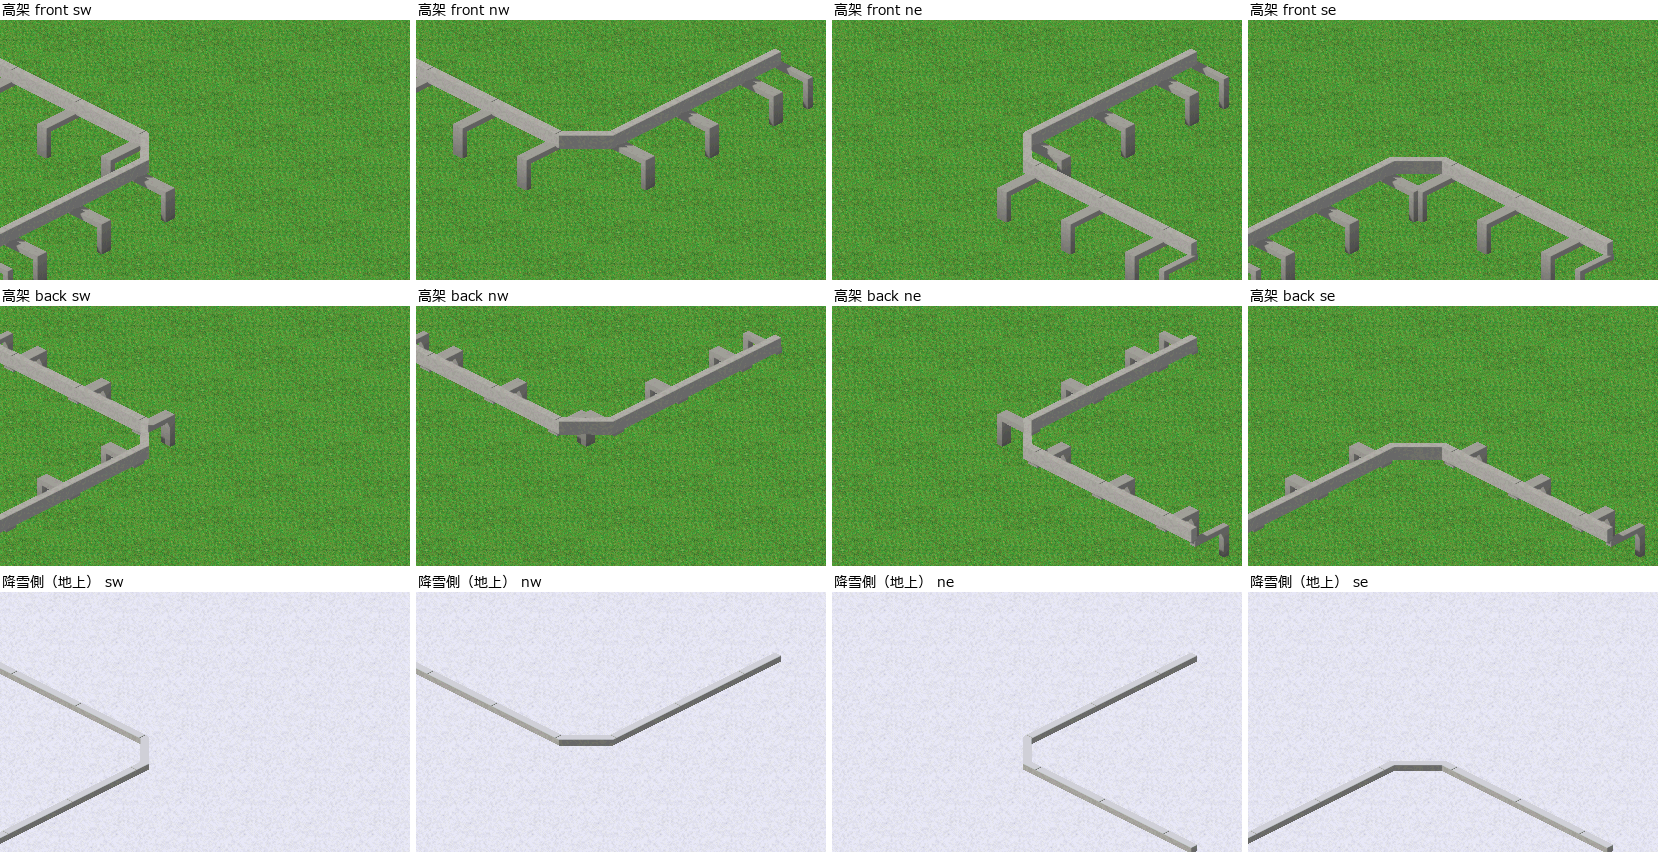
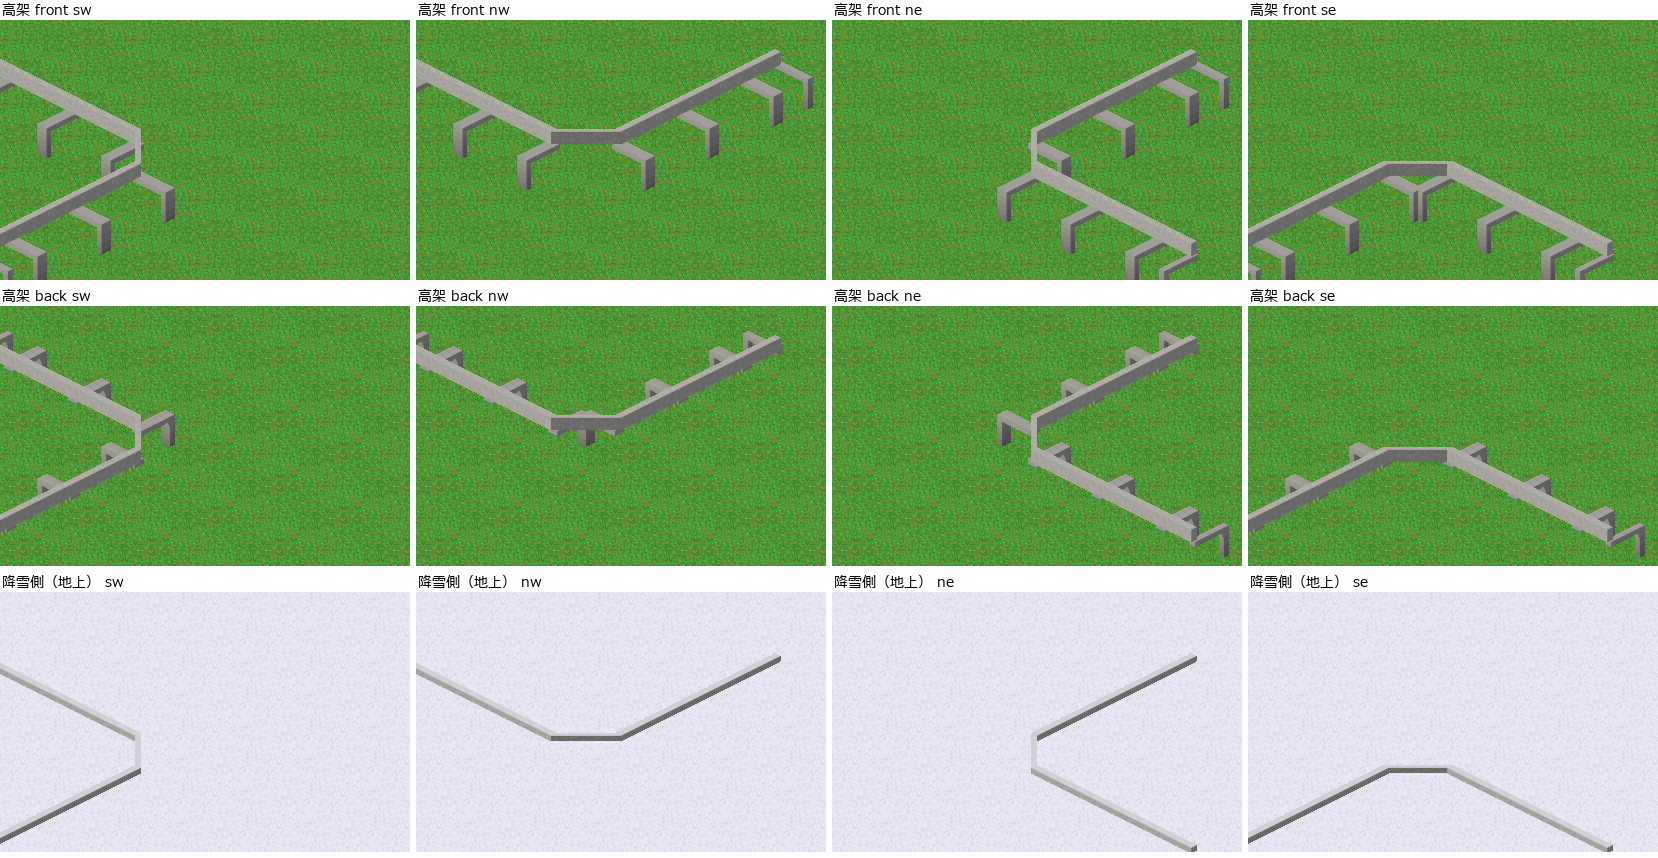
ami: document the straddle beam tile ownership and refresh the corner images (#375)

diff --git a/addons/ami/docs/objects/monorail.md b/addons/ami/docs/objects/monorail.md
@@ -7,7 +7,8 @@
 - 物: 地上の `ami_monorail_straddle`、高架の 3 版 `ami_monorail_straddle_elev_front`・`_center`・`_back`（`system_type=1`）、トンネル `ami_monorail_straddle_tunnel`（中の way は地上の版）、車庫 `ami_monorail_depot`（[「車庫の作り」](depot.md)）。waytype は `monorail_track`。並びは iss の跨座式（`../refs/iss/src/way/monorail/straddle.dat`・`../refs/iss/src/tunnel/monorail/tunnel.dat`）に合わせた（2026-11-21、ユーザーの決定「軌道配置は ISS と合わせる」）。橋・基盤の版・壁は作らない（iss にも無い）
 - 桁: 打ち放しのコンクリートの箱。幅 0.85、上面は way の高さから 0.7（iss の地上の桁を画面で測った値。記録）。地上の版は桁の下面が地面、高架の版は桁を下へ深くして高さ 1.6。跨座式の車両（pak128.japan の車両）は車体の下端が地面の高さに描かれ、裾が桁の上の部分を隠す
 - 高架の柱: 桁がタイルを出入りする辺ごとに、その辺の角に柱を立て、柱の頭から辺の中点の桁の下へ腕を渡す（iss と同じ並び）。版は柱を立てる側で、`front` は手前（南北の線は東、東西の線は南）、`back` は奥、`center` は両側。行き止まりは桁の端にも同じ柱と腕。iss は柱をタイルの角ちょうどに立てるが、AMI はタイルの内側に面を合わせて立て、隣のタイルの柱と背中合わせにする（門型の橋脚と同じ。角に立てると、絵がタイルの持ち分で切られて柱が半分になる）。複線は、西（北）の線を `back`・東（南）の線を `front` にすると、柱が外側に並ぶ（`docs/monorail_elev_pair.png`）
-- 絵の並び: 線路の通常の版と同じシート（`sheetlib` の `track_sheet`。部品は `tools/blender/sheetlib/monorail_parts.py`）。斜めの走り（`diagonal[...]`）は斜めの絵（iss と同じ）。直角の曲がり（`image[sw]` など）は、辺の中点から軸向きに 1.0（`MONO_CORNER_STUB`）進んでから斜めに曲がる角の絵（行 2 の列 5〜8。幅は直線と同じ 0.85。斜めの走りの幅は約 0.54。2026-11-27、ユーザーの判断 86。#375）。斜めの絵を指していたときは、直線のタイルの桁がタイルの外へ伸ばした分が角の先に出た。地上・高架・電化（`ami_monorail_power`）で同じ。斜めの走りの端のタイル（`diagonal[...]`）が直線と続く所は、小さな出が残る。角の絵（`image[...]`）が斜めの絵のタイルに隣り合う並び（曲がりが 3 つ以上続き、向きが入れ替わる所。本体の `weg_t::calc_diagonal` で、片方のタイルだけが斜めでないとされる）では、桁の継ぎ目に段ができる（[`375_three_bends_128.png`](../375_three_bends_128.png)。左が角の絵にする前）。近い斜めの絵は無い（iss の dat にキーが無い）。分岐の絵（`image[nse1]` などの 1・2）は iss と同じく入れたが、本体は `monorail_track` では自動で選ばない（[way-addon.md](../../../../docs/reference/way-addon.md) の 9.2）。分岐の追加画像（ex 画像）は無い
+- 絵の並び: 線路の通常の版と同じシート（`sheetlib` の `track_sheet`。部品は `tools/blender/sheetlib/monorail_parts.py`）。カーブは斜めの絵（iss と同じく、dat の `image[sw]` などが斜めのセルを指す）。近い斜めの絵は無い（iss の dat にキーが無い）。分岐の絵（`image[nse1]` などの 1・2）は iss と同じく入れたが、本体は `monorail_track` では自動で選ばない（[way-addon.md](../../../../docs/reference/way-addon.md) の 9.2）。分岐の追加画像（ex 画像）は無い
+- タイルの持ち分（#375。2026-11-27、ユーザーの判断 91）: 桁は高さのある部品（`tall`）で、タイルの辺で切り（余白 `MONO_TALL_PAD` = 0.05）、各タイルが自分の桁を地面より上（`MONO_RISE` 行）まで描く。斜めの桁の幅は直線の 1/√2（辺で断面がそろう。画面では直線とほぼ同じ太さ）。前は、奥のタイルが手前の隣の分まで桁を延ばして描いていて、直角の曲がりの角の先に桁の端が出た。斜めの形の曲がりをやめて軸向きに進んでから斜めに曲がる形にする案（判断 86）は、曲がりが 3 つ続く所・T 字や十字の隣で段ができたので、やめた。柱と腕は本体の層のままなので、桁の影は腕に落ちない。電化の way-object（`ami_monorail_power`）の絵は変えていない
 - 雪の絵: 桁の上面だけを白くする（iss の跨座式は雪の絵を持たない。AMI のほかの way にそろえて足した）。柱は夏と同じ
 - 色と汚し（#154）: 第 1 弾の高架の躯体・橋脚・壁（中性の灰）と見分けるため、桁と柱を少し暖かい灰にし、柱を桁より 8% 暗くした。柱と腕は下ほど暗くする（地際の汚れ。柱の下端〔地面より 0.5 単位下〕で 45%、下端から 3.5 単位で 0。地面の高さでは約 39%）。懸垂式も同じ。値は `sheetlib/monorail_parts.py` の `MONO_*`、作りは `tiled_concrete_material` の汚しの引数。ユーザーが案 A＋C を選んだ（2026-11-22。案の比べは `docs/weather_cases_*.png`、直す前と直した後は `docs/weather_before_after_*.png`。見本は `ingame/weathering_lineup.nut`）
 - 高架と地上のつなぎ方（#375。本体の決まりで、AMI の版の作りではない。2026-11-27、OTRPv64、`flat_512_left_v64`、pak128、スクリプトで敷設。車両は走らせていない）: 高架の版は、置いた所の地面の高さ + `way_height_clearance`（pak128 は 2）に置かれ、地面が坂なら高架のタイルも坂になる。
@@ -17,7 +18,7 @@
 - アイコン: 背景は紫（モノレール。`blender/icons.py` の `WAY_BG`）。高架の版は右下に版の札（前・中・後）と下の帯
 - 値: 150 km/h、地上 30000・600、高架 60000・1200（地上の 2 倍）、トンネル 120000・2400（4 倍）、登場 1900（#110 の一覧。`blender/ami_dat.py` の `VALUES`）
 - pak は `ami_monorail.pak`（`build.py` の `KINDS`。車庫も入る）
-- 直角の曲がりの前後の画像（#375。2026-11-27、OTRPv64、`flat_512_left_v64`、pak128 と pak256。左が直す前）: [`375_corner_128.png`](../375_corner_128.png)・[`375_corner_256.png`](../375_corner_256.png)（地上。nw は電化つき）、[`375_corner_elev_128.png`](../375_corner_elev_128.png)・[`375_corner_elev_256.png`](../375_corner_elev_256.png)（高架の center）、[`375_corner_front_back_snow_128.png`](../375_corner_front_back_snow_128.png)（直した後の高架の front・back と降雪側）、[`375_power_128.png`](../375_power_128.png)（sw・ne・se の電化）。残る斜めの走りの端の出は [`375_diag_run_end_128.png`](../375_diag_run_end_128.png)
+- 角と接続の前後の画像（#375。2026-11-27、OTRPv64、`flat_512_left_v64`、pak128 と pak256。左が直す前）: 直角の曲がり [`375_corners_128.png`](../375_corners_128.png)・[`_256`](../375_corners_256.png)、3 つ・4 つ続く曲がり・T 字と十字の隣・斜めの走りと端 [`375_bends_128.png`](../375_bends_128.png)・[`_256`](../375_bends_256.png)、高架（center）[`375_elevated_128.png`](../375_elevated_128.png)・[`_256`](../375_elevated_256.png)。直した後の高架の front・back と降雪側 [`375_corner_front_back_snow_128.png`](../375_corner_front_back_snow_128.png)、sw・ne・se の電化 [`375_power_128.png`](../375_power_128.png)、車両の走る所 [`375_vehicle_256.png`](../375_vehicle_256.png)
 - 見本は `ingame/monorail.sh`（`ingame/monorail.nut`）。ゲームの写し（`work/monorail_game/<PORT>/`）を起動し、地上（車庫と輪・十字・斜め・行き止まり）、高架の 3 版（直線・L 字・T字・斜め・行き止まり）、複線、トンネルを敷き、電化の要らない車両の編成を輪で走らせる。`EXTRA_PAKS` で、借りた車両の pak を写しの中にだけ入れられる。`SNOW=1` で降雪側、`CAPTURE=1` で撮る。使い方はスクリプトの冒頭
   - 確認画像（2026-11-22、`OTRPv64_3.exe`、`flat_512.sve`）: `docs/monorail_ground_temperate.png`（地上の輪・十字・車庫の口の T字）、`monorail_elev_front.png`・`monorail_elev_center.png`・`monorail_elev_back.png`・`monorail_elev_pair.png`、`monorail_tunnel_diag.png`（左がトンネル、右が地上の斜め）、`monorail_snow.png`（降雪側の地上と高架 `front`）、`monorail_vehicle.png`・`monorail_vehicle_zoom.png`（地上を走る編成）、`monorail_depot_vehicle.png`（車庫から出る編成）
   - 車両は、ユーザーが動作の確かめに渡した pak128.japan の跨座式の車両（玉野の 4 両編成。battery）を、写しの中にだけ入れて走らせた。リポジトリには入れていない。高架の上を走る編成は見ていない（地上から高架へ上がる坂を敷いていない）

diff --git a/docs/reference/way-addon.md b/docs/reference/way-addon.md
@@ -49,7 +49,7 @@
   iss の運河（`../refs/iss/src/way/water/canal.dat`）は `diagonal` を持たず、`image[sw]` などを L 字のカーブのセル（行 2 の列 5〜8）にして、斜めを L 字のジグザグにしている。AMI の景観の運河もこれに合わせた（`ami_dat.py` の `NO_DIAG`。壁・水面が直線と同じ作りなので連続する）
   iss の運河の行き止まりのセル（`canal.dat` が指す `canal_kt` は、同じフォルダの `canal.png` を読んだ。行 0 の列 5〜8）は、閉じた側に平らな蓋（笠石と同じ明るい面）をかぶせ、水が蓋の下へ消える暗渠になっている（2026-11-24 に絵を読んだ）。AMI の景観の運河は、タイルの半分を蓋にすると広すぎたため（ユーザーの指摘）、辺に、笠石・護岸（辺から 0.35）より 0.1 広い（辺から 0.45）まぐさを付けて、その下に暗い口を描く作りにした（だまし絵）
   （壁を長く取って影をそろえる直し（c17394e）は、(1) が残るので #217 で取り下げた）。
-- **高さのある way の直角の曲がり**（2026-11-27、#375。跨座式モノレール。合成と OTRPv64 のゲームで確認）: 地面より高い桁は、直線のタイルの絵が自分の菱形の中で、タイルの外へ伸ばした分まで描く（奥の隣の分を描くため）。曲がりのタイルが斜めの形だと、その分が角の先に出る。出る長さは、桁の上面の高さ 0.72 で辺から約 0.87（部品の単位）。曲がりのセル（`image[sw]` など）を、辺の中点から軸向きにそれより長く（1.0）進んでから斜めに曲がる形にすると消える（`track_sheet` の `corner_stub`。`diagonal[...]` と同じセルを指さない）。地面に敷く way（レールの高さ）では出ない
+- **高さのある way の隣どうしの描き方**（2026-11-27、#375。跨座式モノレール。OTRPv64 のゲームで確認）: 地面より高い部品を、持ち分（地面の菱形）で切る層に置くと、奥のタイルは手前の隣の分まで絵を延ばして描くことになる。隣の絵の形（向き）が違うと、延ばした分が外へ出るか、段ができる（直角の曲がりの角、曲がりが続く所、T 字・十字の隣、斜めの走りの端）。曲がりの絵の形を変えても、隣の組み合わせの全部は合わない。高さのある部品（`Part` の `tall`）にして `rise` で持ち分を上へ広げ、タイルの辺で切れば（余白は `track_sheet` の `tall_pad`。跨座式は 0.05）、各タイルが自分の分だけを描くので合う。斜めの部分の幅は、辺で直線と同じ断面になる 1/√2（`Part.width` が `"bed"`）にする。地面に敷く way（レールの高さ）では出ない
 - **予想図との差が 0 px** であっても、分かるのは「各タイルが持ち分どおりに描かれている」ことだけ。絵どうしが段差なくつながっているかは別に見る
 
 ## 3. 手本の作り（2026-11 時点）

diff --git a/tools/README.md b/tools/README.md
@@ -71,6 +71,7 @@ D:\bin\blender\blender.exe -b --factory-startup --python ..\..\tools\blender\com
   - `wall_sheet`: 壁を way の絵に描かず、このシート名の壁の way-object のシートに描く。上 4 行が奥、下 4 行（`WALL_FRONT_ROW` から）が手前の絵。`diag_curves` と一緒に使える（斜めの部品は `assemble` の `path_opts` で、直線と斜めの部品を 1 回でまとめて切り分ける）
   - `cull_diag_wall_ends`: 壁の way-object のシートで、画面で縦向きの斜め（北東⇔南西）のタイルの側壁（`wallL`・`wallR` のうち横幅の倍率が 1 より小さいもの）を、裏面を描かずに描く（`render_layers` の `cull_diag_wall_ends`）。タイルの境で切り口の面を取った（`open_ends`）壁の口から、壁の中（影で暗い）が見えなくなり、口は透明になる。斜めのタイルの手前の絵が、隣の行き止まりのタイルの奥の壁の絵より後に描かれ、角に暗い縦線が出た（AMI #63）。ほかの部品には当てない（行き止まりの端の壁は、基準面の分だけタイルの外へ動いて外の面ごと切り口として取られ、口から見える壁の中が外の面の代わりになっている。画面で横向きの斜めの側壁は、口が長い面の端より画面で約 2px 先へ出ていて、消すと隣の壁との間に草が出た）。既定は偽（blender-poc のシートは変えない）
   - `curve_cells`: `diag_curves` でも、カーブのセルを斜めの形で別に描く（斜めのタイルの切り抜き `_diag_open_cut` をかけない）
+  - `tall_pad`: 高さのある部品を辺より長く残す余白（既定 `TALL_PAD`）。手前の絵の行（`front_row`）が無い物の高さのある部品は、手前と奥に分けず奥の絵に描く（跨座式モノレールの桁。#375）
   - `wall_sheet` の坂のセルは、壁をタイルの外へ `SLOPE_WALL_PAD` だけ残し、壁の持ち分を左右へ 1 列広げる（坂の上の平らなタイルの壁との 1px のすき間を埋める）。`path_opts` の組み立てでは、ほかの経路の通り道で壁を削るのは、その経路が壁の側にあるときだけにし、斜めの部分の壁はタイルの辺で切る
 - 架線（AMI の架線つきの壁。#17）: 部品は `sheetlib/catenary_parts.py`（柱・梁・吊り金具・トロリ線・ちょう架線・ハンガー。名前は `cat_` で始まる）。`groups` に `catenary`（線）と `catenary_support`（柱・梁・吊り金具）を足した版が作る
   - `select_walls` は架線の部品を壁に数えない。柱は壁と同じ決め方で残すか消し（`center` は無し）、梁・トロリ線はいつも残す。`catenary_support` は経路が 1 本のセルだけに作る
